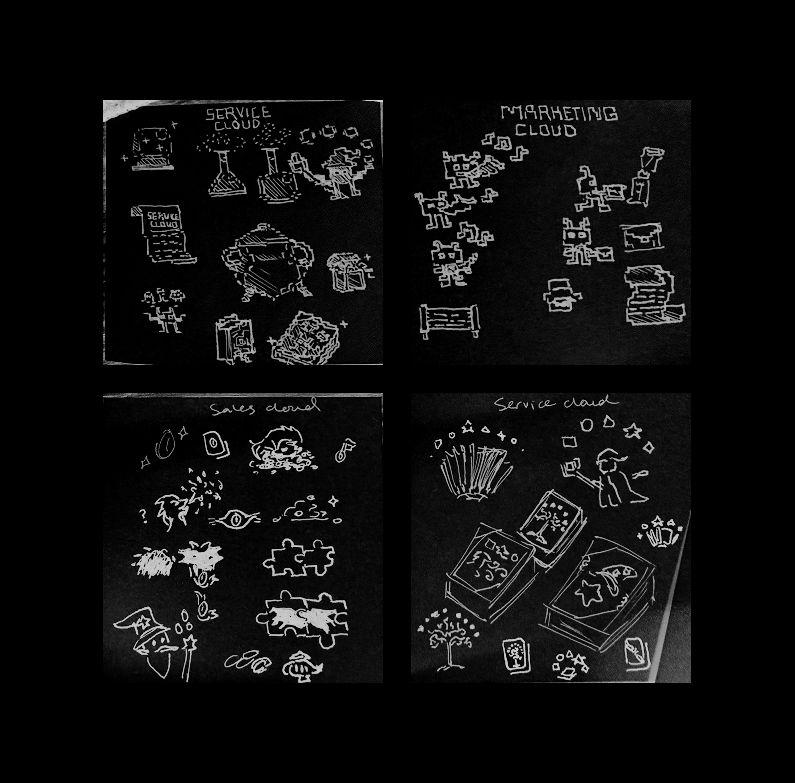
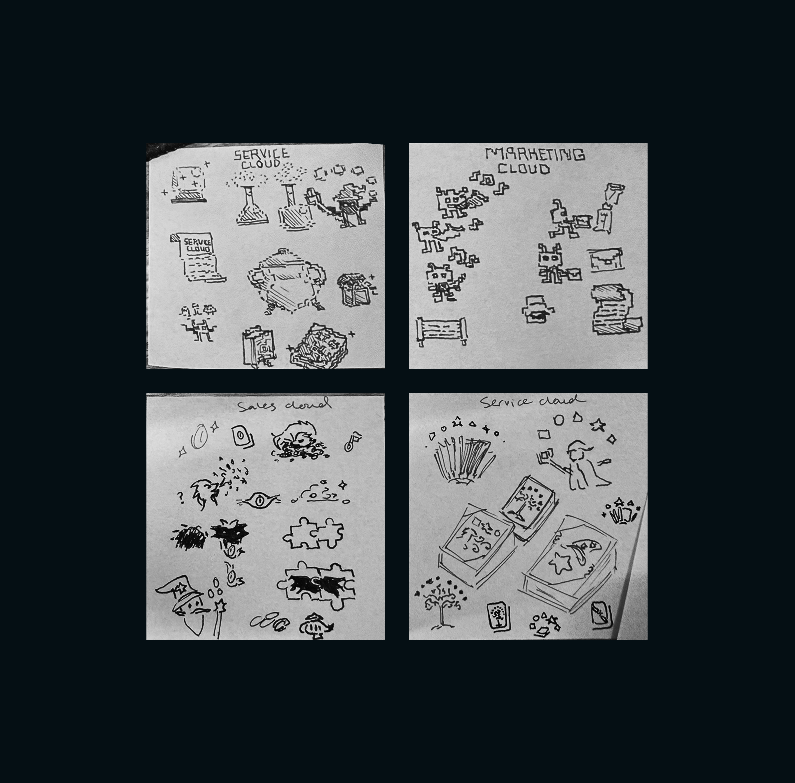
Rename project 5: nav shows "St. Laurence 1961", full name is "St. Laurence 1961 Society Page"

diff --git a/project1.html b/project1.html
@@ -30,7 +30,7 @@
                             <li><a href="project2.html"><span class="nav__num">02</span>LOVET: VET CARE</a></li>
                             <li><a href="project3.html"><span class="nav__num">03</span>GELETKA+</a></li>
                             <li><a href="project4.html"><span class="nav__num">04</span>DIGITAL MASS</a></li>
-                            <li><a href="project5.html"><span class="nav__num">05</span>PROJECT 05</a></li>
+                            <li><a href="project5.html"><span class="nav__num">05</span>ST. LAURENCE 1961</a></li>
                         </ul>
                     </li>
                     <li class="nav__item">
@@ -123,7 +123,7 @@
     <nav class="project-nav">
         <a href="project5.html" class="project-nav__prev">
             <span class="project-nav__label">Previous</span>
-            <span class="project-nav__title">Project 05</span>
+            <span class="project-nav__title">St. Laurence 1961 Society Page</span>
         </a>
         <a href="project2.html" class="project-nav__next">
             <span class="project-nav__label">Next</span>
@@ -164,7 +164,7 @@
             <li><a href="project2.html">Lovet: Vet Care</a></li>
             <li><a href="project3.html">Geletka+</a></li>
             <li><a href="project4.html">Digital Mass Icon System</a></li>
-            <li><a href="project5.html">Project 05</a></li>
+            <li><a href="project5.html">St. Laurence 1961 Society Page</a></li>
         </ul>
         </nav>
         </div>

diff --git a/project4.html b/project4.html
@@ -30,7 +30,7 @@
                             <li><a href="project2.html"><span class="nav__num">02</span>LOVET: VET CARE</a></li>
                             <li><a href="project3.html"><span class="nav__num">03</span>GELETKA+</a></li>
                             <li><a href="project4.html"><span class="nav__num">04</span>DIGITAL MASS</a></li>
-                            <li><a href="project5.html"><span class="nav__num">05</span>PROJECT 05</a></li>
+                            <li><a href="project5.html"><span class="nav__num">05</span>ST. LAURENCE 1961</a></li>
                         </ul>
                     </li>
                     <li class="nav__item">
@@ -105,7 +105,7 @@
         </a>
         <a href="project5.html" class="project-nav__next">
             <span class="project-nav__label">Next</span>
-            <span class="project-nav__title">Project 05</span>
+            <span class="project-nav__title">St. Laurence 1961 Society Page</span>
         </a>
     </nav>
     <div class="footer-divider"></div>
@@ -142,7 +142,7 @@
             <li><a href="project2.html">Lovet: Vet Care</a></li>
             <li><a href="project3.html">Geletka+</a></li>
             <li><a href="project4.html">Digital Mass Icon System</a></li>
-            <li><a href="project5.html">Project 05</a></li>
+            <li><a href="project5.html">St. Laurence 1961 Society Page</a></li>
         </ul>
         </nav>
         </div>

diff --git a/project5.html b/project5.html
@@ -3,7 +3,7 @@
 <head>
     <meta charset="UTF-8">
     <meta name="viewport" content="width=device-width, initial-scale=1.0">
-    <title>Caroline Swain | Project 05</title>
+    <title>Caroline Swain | St. Laurence 1961 Society Page</title>
     <link rel="stylesheet" href="css/styles.css">
 
     <link rel="preconnect" href="https://fonts.googleapis.com">
@@ -30,7 +30,7 @@
                             <li><a href="project2.html"><span class="nav__num">02</span>LOVET: VET CARE</a></li>
                             <li><a href="project3.html"><span class="nav__num">03</span>GELETKA+</a></li>
                             <li><a href="project4.html"><span class="nav__num">04</span>DIGITAL MASS</a></li>
-                            <li><a href="project5.html"><span class="nav__num">05</span>PROJECT 05</a></li>
+                            <li><a href="project5.html"><span class="nav__num">05</span>ST. LAURENCE 1961</a></li>
                         </ul>
                     </li>
                     <li class="nav__item">
@@ -139,7 +139,7 @@
             <li><a href="project2.html">Lovet: Vet Care</a></li>
             <li><a href="project3.html">Geletka+</a></li>
             <li><a href="project4.html">Digital Mass Icon System</a></li>
-            <li><a href="project5.html">Project 05</a></li>
+            <li><a href="project5.html">St. Laurence 1961 Society Page</a></li>
         </ul>
         </nav>
         </div>

diff --git a/thankyou.html b/thankyou.html
@@ -56,7 +56,7 @@
                             <li><a href="project2.html"><span class="nav__num">02</span>LOVET: VET CARE</a></li>
                             <li><a href="project3.html"><span class="nav__num">03</span>GELETKA+</a></li>
                             <li><a href="project4.html"><span class="nav__num">04</span>DIGITAL MASS</a></li>
-                            <li><a href="project5.html"><span class="nav__num">05</span>PROJECT 05</a></li>
+                            <li><a href="project5.html"><span class="nav__num">05</span>ST. LAURENCE 1961</a></li>
                         </ul>
                     </li>
                     <li class="nav__item">
@@ -106,7 +106,7 @@
                         <li><a href="project2.html">Lovet: Vet Care</a></li>
                         <li><a href="project3.html">Geletka+</a></li>
                         <li><a href="project4.html">Digital Mass Icon System</a></li>
-                        <li><a href="project5.html">Project 05</a></li>
+                        <li><a href="project5.html">St. Laurence 1961 Society Page</a></li>
                     </ul>
                 </nav>
             </div>

diff --git a/project2.html b/project2.html
@@ -30,7 +30,7 @@
                             <li><a href="project2.html"><span class="nav__num">02</span>LOVET: VET CARE</a></li>
                             <li><a href="project3.html"><span class="nav__num">03</span>GELETKA+</a></li>
                             <li><a href="project4.html"><span class="nav__num">04</span>DIGITAL MASS</a></li>
-                            <li><a href="project5.html"><span class="nav__num">05</span>PROJECT 05</a></li>
+                            <li><a href="project5.html"><span class="nav__num">05</span>ST. LAURENCE 1961</a></li>
                         </ul>
                     </li>
                     <li class="nav__item">
@@ -154,7 +154,7 @@ Required deeper brand identification in a competitive space through more vibrant
             <li><a href="project2.html">Lovet: Vet Care</a></li>
             <li><a href="project3.html">Geletka+</a></li>
             <li><a href="project4.html">Digital Mass Icon System</a></li>
-            <li><a href="project5.html">Project 05</a></li>
+            <li><a href="project5.html">St. Laurence 1961 Society Page</a></li>
         </ul>
         </nav>
         </div>

diff --git a/about.html b/about.html
@@ -29,7 +29,7 @@
                             <li><a href="project2.html"><span class="nav__num">02</span>LOVET: VET CARE</a></li>
                             <li><a href="project3.html"><span class="nav__num">03</span>GELETKA+</a></li>
                             <li><a href="project4.html"><span class="nav__num">04</span>DIGITAL MASS</a></li>
-                            <li><a href="project5.html"><span class="nav__num">05</span>PROJECT 05</a></li>
+                            <li><a href="project5.html"><span class="nav__num">05</span>ST. LAURENCE 1961</a></li>
                         </ul>
                     </li>
                     <li class="nav__item">
@@ -138,7 +138,7 @@
             <li><a href="project2.html">Lovet: Vet Care</a></li>
             <li><a href="project3.html">Geletka+</a></li>
             <li><a href="project4.html">Digital Mass Icon System</a></li>
-            <li><a href="project5.html">Project 05</a></li>
+            <li><a href="project5.html">St. Laurence 1961 Society Page</a></li>
         </ul>
         </nav>
         </div>

diff --git a/contact.html b/contact.html
@@ -30,7 +30,7 @@
                             <li><a href="project2.html"><span class="nav__num">02</span>LOVET: VET CARE</a></li>
                             <li><a href="project3.html"><span class="nav__num">03</span>GELETKA+</a></li>
                             <li><a href="project4.html"><span class="nav__num">04</span>DIGITAL MASS</a></li>
-                            <li><a href="project5.html"><span class="nav__num">05</span>PROJECT 05</a></li>
+                            <li><a href="project5.html"><span class="nav__num">05</span>ST. LAURENCE 1961</a></li>
                         </ul>
                     </li>
                     <li class="nav__item">
@@ -119,7 +119,7 @@
             <li><a href="project2.html">Lovet: Vet Care</a></li>
             <li><a href="project3.html">Geletka+</a></li>
             <li><a href="project4.html">Digital Mass Icon System</a></li>
-            <li><a href="project5.html">Project 05</a></li>
+            <li><a href="project5.html">St. Laurence 1961 Society Page</a></li>
         </ul>
         </nav>
         </div>

diff --git a/index.html b/index.html
@@ -30,7 +30,7 @@
                             <li><a href="project2.html"><span class="nav__num">02</span>LOVET: VET CARE</a></li>
                             <li><a href="project3.html"><span class="nav__num">03</span>GELETKA+</a></li>
                             <li><a href="project4.html"><span class="nav__num">04</span>DIGITAL MASS</a></li>
-                            <li><a href="project5.html"><span class="nav__num">05</span>PROJECT 05</a></li>
+                            <li><a href="project5.html"><span class="nav__num">05</span>ST. LAURENCE 1961</a></li>
                         </ul>
                     </li>
                     <li class="nav__item">
@@ -134,7 +134,7 @@
             <li><a href="project2.html">Lovet: Vet Care</a></li>
             <li><a href="project3.html">Geletka+</a></li>
             <li><a href="project4.html">Digital Mass Icon System</a></li>
-            <li><a href="project5.html">Project 05</a></li>
+            <li><a href="project5.html">St. Laurence 1961 Society Page</a></li>
         </ul>
         </nav>
         </div>

diff --git a/project3.html b/project3.html
@@ -30,7 +30,7 @@
                             <li><a href="project2.html"><span class="nav__num">02</span>LOVET: VET CARE</a></li>
                             <li><a href="project3.html"><span class="nav__num">03</span>GELETKA+</a></li>
                             <li><a href="project4.html"><span class="nav__num">04</span>DIGITAL MASS</a></li>
-                            <li><a href="project5.html"><span class="nav__num">05</span>PROJECT 05</a></li>
+                            <li><a href="project5.html"><span class="nav__num">05</span>ST. LAURENCE 1961</a></li>
                         </ul>
                     </li>
                     <li class="nav__item">
@@ -153,7 +153,7 @@
             <li><a href="project2.html">Lovet: Vet Care</a></li>
             <li><a href="project3.html">Geletka+</a></li>
             <li><a href="project4.html">Digital Mass Icon System</a></li>
-            <li><a href="project5.html">Project 05</a></li>
+            <li><a href="project5.html">St. Laurence 1961 Society Page</a></li>
         </ul>
         </nav>
         </div>

diff --git a/resume.html b/resume.html
@@ -29,7 +29,7 @@
                             <li><a href="project2.html"><span class="nav__num">02</span>LOVET: VET CARE</a></li>
                             <li><a href="project3.html"><span class="nav__num">03</span>GELETKA+</a></li>
                             <li><a href="project4.html"><span class="nav__num">04</span>DIGITAL MASS</a></li>
-                            <li><a href="project5.html"><span class="nav__num">05</span>PROJECT 05</a></li>
+                            <li><a href="project5.html"><span class="nav__num">05</span>ST. LAURENCE 1961</a></li>
                         </ul>
                     </li>
                     <li class="nav__item">
@@ -96,7 +96,7 @@
             <li><a href="project2.html">Lovet: Vet Care</a></li>
             <li><a href="project3.html">Geletka+</a></li>
             <li><a href="project4.html">Digital Mass Icon System</a></li>
-            <li><a href="project5.html">Project 05</a></li>
+            <li><a href="project5.html">St. Laurence 1961 Society Page</a></li>
         </ul>
         </nav>
         </div>
